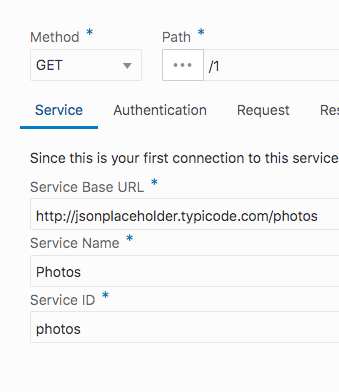
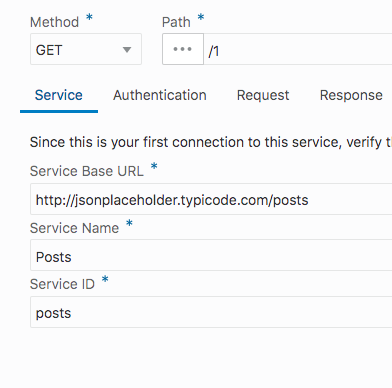
Complete image addition section of LabGuide400

diff --git a/workshops/AVBCS-Workshop/LabGuide400.md b/workshops/AVBCS-Workshop/LabGuide400.md
@@ -23,6 +23,8 @@ This lab is one of a series which provides an overview of Oracle Autonomous Visu
 
 - To begin adding the **Details**, open the **main-start** page where we have a list of the inventory items. Open the **Page Structure** panel by clicking the icon that resembles a diagram above the component list. This will make it easy to see all the components and select the **List View** component which we will work with next.
 
+* After selecting the **List View** component from the **Page Structure** list you can close the **Page Structure** panel again by clicking on the icon again to regain screen space.
+
   ![](images/400/pageStructureIcon.png)
 
 - With the **List View** component selected, open the **Quick Start** tab in the right panel and select **Add Detail Page**.
@@ -34,16 +36,41 @@ This lab is one of a series which provides an overview of Oracle Autonomous Visu
   ![](images/400/getInventoryEndpoint.png)
 
 - On the **Page Details** step, select the following items in the order listed and then click **Finish**.
+
   - Name
   - Variant
   - Inventory
   - Reserved
 
-* After selecting the **List View** component from the **Page Structure** list you can close the **Page Structure** panel again by clicking on the icon again to regain screen space.
+    ![](images/100/detailFields.png)
+
+- We can now test the inventory item details page to see our newly created page. Click on the "Live" button in the top right corner of the development console to enable live mode and then click an item in the inventory list.
+
+  ![](images/100/liveButton.png)
+
+- This will open our new **Inventory Detail** page and display the information from the item we have selected. You'll see that the page is already created for us including a back button that will navigate back to the overall inventory list. Exit "Live" mode by clicking the "Live" button again.
+
+- Now we'll add an image to our detail page. From the component list in the left panel, drag an "Image" component onto the Inventory Detail page so that it is placed between the title bar and our "List" component. You should now have a layout with a blank image on it.
+
+  ![](images/400/imageAdded.png)
+
+- We can upload an image to VBCS for use in our app. In the left column of the development console expand **inventorymobileapp > resources** so that the **Images** is visible. Right click on **Images** and click **Import**.
+
+  ![](images/400/importImage.png)
+
+- Import the `wineGlass.png` image provided. (If the image is not listed in the left panel after importing, you may need to refresh your browser window)
+
+  ![](images/400/importWineGlass.png)
+
+- Back on the **Inventory Detail** page select the image component and select the **Data** tab. The resources are accessed in the applications file structure so we will set the **Source URL** on the **Data** tab as `./resources/images/wineGlass.png` and press enter. You should now see an image on our page. (In this example we've used a generic image but we could have also used a variable insead of a source URL and referenced a different image for each inventory item.)
+
+  ![](images/400/wineImageSource.png)
+
+- Our next steps will involve adding data to this detail page which is retrieved from an external REST service.
 
 # Add REST Service Connection
 
-- If you are not already, log in to the Visual Builder Cloud Service(instructions on how to do so are in Lab 100)
+- We will now add the Service Connection through which data will be retrieved from an external REST endpoint. If you are not already, log in to the Visual Builder Cloud Service(instructions on how to do so are in Lab 100).
 
 - In your application development console, click on **Service Connections** icon in the far left panel. It is the icon that looks like a circle with a line through it and is highlighted blue in the image below.
 
@@ -57,11 +84,11 @@ This lab is one of a series which provides an overview of Oracle Autonomous Visu
 
   ![](images/400/connectionSource.png)
 
-- Leave "GET" the **Method** dropdown menu. Next, enter the following address in the URL field:
+- "GET" is the **Method** selected in dropdown menu. Next, enter the following address in the URL field:
 
   `http://jsonplaceholder.typicode.com/posts/1`
 
-- Select "Retrieve One" in the **Action Hint** dropdown menu, then click **Next**. (For this example we will be doing a simple GET request returning one record)
+- Select "Retrieve One" in the **Action Hint** dropdown menu, then click **Next**. (For this example we will be doing a simple GET request returning one record containing placeholder data)
 
   ![](images/400/retrieveOne.png)
 
@@ -83,8 +110,10 @@ This lab is one of a series which provides an overview of Oracle Autonomous Visu
 
 - Once created, the development console will display the tab of the new service connection.
 
-  ![](images/400/photosConnectionTab.png)
+  ![](images/400/postsConnectionTab.png)
 
-### **STEP 3**: Title of Step 3
+- Now that the connection is configured we'll add the response data to our detail page. To do so we'll set up a variable on the page to store the response and define an action to call the connection for the data.
 
-- Instructions for Step 3
+### Displaying Date Retrieved from a REST Call
+
+- First we'll need to set up a variable on our page to hold the response data from the REST call.
